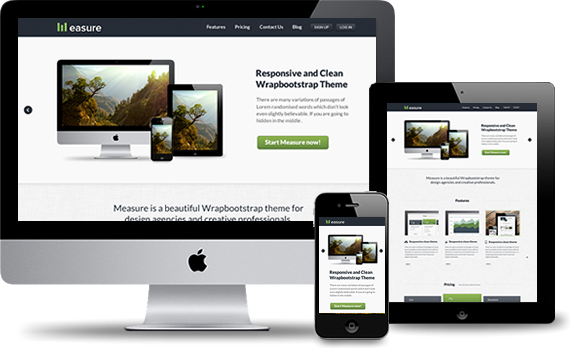
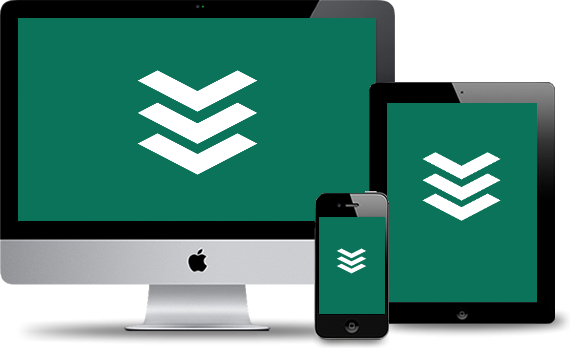
Update slide.

diff --git a/signin.html b/signin.html
@@ -10,6 +10,7 @@
     <link href='http://fonts.googleapis.com/css?family=Lato:300,400,700,900,300italic,400italic,700italic,900italic' rel='stylesheet' type='text/css'>
 </head>
 <body>    
+    <!-- begins navbar -->
 	<div class="navbar navbar-fixed-top">
       <div class="navbar-inner">
         <div class="container">
@@ -18,20 +19,19 @@
 	            <span class="icon-bar"></span>
 	            <span class="icon-bar"></span>
           	</a>
-          	<a class="brand" href="index.html">
-                <img src="img/logo.png" alt="logo" />
+          	<a class="brand scroller" data-section="body" href="index.html">
+                <img src="img/icon-landmark.png" alt="logo" />
+                Landmark
             </a>
-		  	    <div class="nav-collapse collapse">
+		  	<div class="nav-collapse collapse">
                 <ul class="nav pull-right">
-                    <li>
-                        <a class="btn-header" href="signup.html">Sign up</a>
-                    </li>
                     <li><a class="btn-header" href="signin.html">Sign in</a></li>
                 </ul>
-            </div>
+	        </div>
         </div>
       </div>
     </div>
+    <!-- ends navbar -->
 
     <div id="box_login">
         <div class="container">

diff --git a/index.html b/index.html
@@ -123,7 +123,7 @@
                     </p>
                 </div>
                 <div class="span4 feature">
-                    <h3><i class="i_movil"></i> Interact from anywhere</h3>
+                    <h3><i class="i_movil"></i> Mobile Ready</h3>
                     <p class="description">
                         Landmark is optimized so you can analyze from your desktop, mobile device or tablet.
                     </p>

diff --git a/css/theme.css b/css/theme.css
@@ -942,7 +942,7 @@ i.myspace { background-position: -233px -51px; }
 }
 
 .navbar .brand {
-  padding: 10px 10px 4px 10px;
+  padding: 10px 10px 4px 20px;
   color: #fff !important;
   font-size: 36px !important;
 	font-family: 'Francois One', sans-serif !important;
